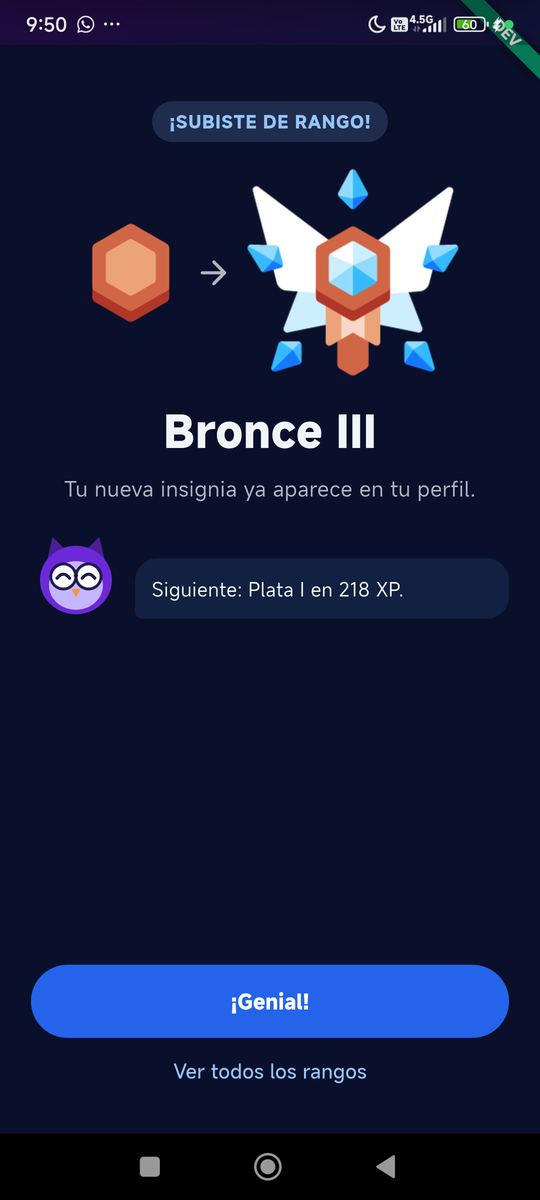
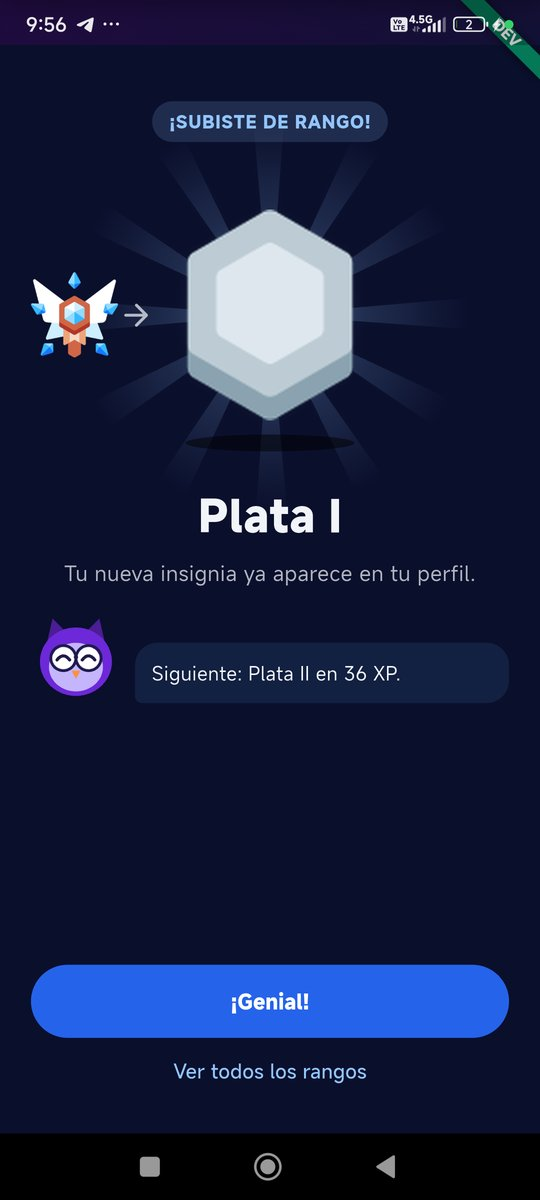
XP: ajuste «Animación al subir de rango» y el editor conserva los campos que no muestra
- {config}/xp.rankAnimation (true de fábrica) en XpSettings y en Niveles e insignias.
- El editor completo de XP ya no devuelve explanationVideoDailyCap a 25 al guardar.
- Guía v30 (animación y captura nueva) y Arquitectura v36.

diff --git a/docs/guias/guia_app.html b/docs/guias/guia_app.html
@@ -774,7 +774,7 @@ flowchart LR
 </div>
 
 <div class="screen" id="xp-celebracion">
-  <figure><img src="img/xp-celebracion.jpg" alt="Subiste de rango"><figcaption>Bronce I → Bronce III.</figcaption></figure>
+  <figure><img src="img/xp-celebracion.jpg" alt="Subiste de rango"><figcaption>Bronce III → Plata I, al terminar la animación.</figcaption></figure>
   <div class="body">
 <h3>«¡Subiste de rango!»</h3>
 <div class="table-wrap"><table>
@@ -783,6 +783,7 @@ flowchart LR
   <tr><td class="msg">«¡NUEVA ESTRELLA!» · «Ya tienes N estrellas sobre tu insignia.»</td><td>Al ganar una estrella después del último rango.</td></tr>
   <tr><td class="msg">«Llegaste al rango más alto. Ahora cada 2.000 XP suma una estrella.»</td><td>Al llegar a Maestro III.</td></tr>
 </table></div>
+<p><b>Animación</b> <span class="chip info">ADMIN</span>: la insignia anterior brilla y tiembla, gira como una moneda y se convierte en la nueva con un destello, un anillo, rayos de luz, vibración y confeti; luego entran los textos, el búho salta y a la izquierda queda la insignia anterior con una flecha (unos 3 s). Con una estrella nueva, la insignia queda quieta: una estrella entra volando, la etiqueta pasa de ★N-1 a ★N con chispas y un confeti pequeño. Tocar la insignia salta al final. Sin animación (ajuste «Animación al subir de rango» apagado, o el teléfono con «reducir movimiento») se ve directamente la pantalla final, sin confeti.</p>
 <p>Si el admin revierte XP y el rango baja, no hay mensaje.</p>
   </div>
 </div>
@@ -1078,6 +1079,7 @@ flowchart LR
 <!-- ============================================================ CAMBIOS -->
 <h2 id="cambios">Historial de cambios</h2>
 <ul class="changelog">
+  <li><b>22-oct-2026</b> · «¡Subiste de rango!» animado: la insignia anterior brilla, gira como moneda y se convierte en la nueva con destello, rayos, vibración y confeti; la estrella nueva entra volando a su etiqueta. Tocar la insignia salta al final; se apaga en el admin (Niveles e insignias → «Animación al subir de rango») y con «reducir movimiento». Captura nueva.</li>
   <li><b>19-oct-2026</b> · Admin: «Salud del contenido» ahora sale de un reporte que guarda el servidor y se recalcula solo cuando cambia el contenido. Se ve igual y casi no gasta lecturas. Abrir un curso también lee mucho menos.</li>
   <li><b>19-oct-2026</b> · «Tu progreso e historial» renovado: promedio de los últimos 10 exámenes y su gráfico en la cabecera, «Tu último examen» con «Revisar» y «Practicar N errores», los 3 temas más flojos con «Ver los N», totales exactos de todos los exámenes y los últimos 10 (ajuste del admin «Exámenes en el historial») con revisión al tocarlos. «Tus simulacros» y Stats cuentan todos los exámenes. Abrir una revisión muestra «Abriendo la revisión…».</li>
   <li><b>19-oct-2026</b> · Admin: cada ajuste de Configuración explica para qué sirve (41 descripciones nuevas). «Segundos entre guardados» acepta 0 para guardar solo por respuestas, al salir y al entregar. El Simulador lee el historial de resultados con una sola lectura; el alumno no ve cambios.</li>

diff --git a/docs/guias/arquitectura.html b/docs/guias/arquitectura.html
@@ -529,6 +529,8 @@ flowchart LR
 
 <h2 id="cambios">Historial de cambios</h2>
 <ul class="changelog">
+<li><b>22-oct-2026</b> · <code>{config}/xp.rankAnimation</code> (booleano, <code>true</code> de fábrica; viaja en <code>{config}/app</code>): la app anima «¡Subiste de rango!» y la estrella nueva. Solo pantalla, sin lecturas nuevas. El editor de XP del admin ya no devuelve <code>explanationVideoDailyCap</code> ni <code>rankAnimation</code> a su valor de fábrica al guardar.</li>
+<li><b>22-oct-2026</b> · Estadísticas renovadas: <code>{config}/stats</code> (umbrales de la pestaña, contrato <code>docs/stats_contract.md</code>) en <code>APP_CONFIG_SECTIONS</code>; la app lee los 200 resultados de <code>simulatorSummary/current.recentResults</code> (misma lectura). Admin #117, app #133.</li>
 <li><b>20-oct-2026</b> · Menos lecturas por examen (rama <code>codex/costos-lecturas-examen</code>): índice compuesto de <code>simulatorResults</code> (<code>blank</code>, <code>correct</code>, <code>incorrect</code>, <code>total</code>) que exige la suma de totales del primer envío (sin él <code>submitExamAttempt</code> fallaba con <code>unexpected_server_error</code>); <code>{config}/catalog.activeCourseIds</code> (lo reescribe <code>auditCourses</code>) reemplaza recorrer la colección de cursos en cada arranque en frío del Simulador; la muestra del índice lee solo las preguntas que usará (sin margen de 2); <code>xp_granted</code> registra solo el trabajo del XP. App: no reintenta guardar respuestas de un examen vencido o cerrado. «Hoy te toca»: de ≈56 a ≈25 lecturas en frío.</li>
 <li><b>19-oct-2026</b> · Salud del contenido en el servidor: callable <code>refreshContentHealth</code>, reporte <code>iya-admin-reports-{env}/contentHealth</code> (lectura del admin con <code>courses:v</code>) y marca <code>dirtyAtMs</code> desde los disparadores; el índice por curso guarda las partes (<code>q[id].p</code>) y el admin con <code>courses:v</code> puede leerlo. Inicio del admin: de ≈1.570 lecturas a 1 (≈160 en el servidor solo si cambió el contenido); abrir un curso: de ≈1.430 a 1. Mismos resultados que antes en las 158 partes de TEST.</li>
 <li><b>19-oct-2026</b> · Totales del alumno en <code>simulatorSummary/current.totals</code> (<code>exams</code>, <code>questions</code>, <code>correct</code>, <code>incorrect</code>, <code>blank</code>, <code>byCourse</code>): <code>submitExamAttempt</code> los calcula la primera vez con una agregación sobre <code>simulatorResults</code> dentro de la transacción (1 lectura por cada 1 000 resultados) y después suma con <code>FieldValue.increment</code> (<code>totalsUpdate</code>). La app los usa en «Tus simulacros», Stats y el historial, y comparte una lectura del resumen entre resultados, totales y temas. Nuevo <code>{config}/simulator.historyLimit</code> (5 a 30, 10): exámenes que lista el historial; cada uno abre su revisión (<code>getExamAttempt</code> + reenvío idempotente, solo al tocar).</li>

diff --git a/test/xp_settings_test.dart b/test/xp_settings_test.dart
@@ -146,4 +146,47 @@ void main() {
     expect((doc.data()!['amounts'] as Map)['partPassed'], 45);
     expect((doc.data()!['ranks'] as List).length, 18);
   });
+
+  testWidgets('the card keeps the fields it does not show', (tester) async {
+    final db = FakeFirebaseFirestore();
+    final ref = db
+        .collection(AppEnv.configCollection)
+        .doc(AppEnv.xpSettingsDocument);
+    await ref.set({
+      ...XpSettings.defaults.toMap(),
+      'explanationVideoDailyCap': 40,
+      'rankAnimation': false,
+    });
+    tester.view.physicalSize = const Size(1200, 6000);
+    tester.view.devicePixelRatio = 1;
+    addTearDown(tester.view.reset);
+    await tester.pumpWidget(
+      ProviderScope(
+        overrides: [xpRepoProvider.overrideWithValue(XpRepo(db))],
+        child: const MaterialApp(
+          home: Scaffold(
+            body: SingleChildScrollView(child: XpSettingsSection()),
+          ),
+        ),
+      ),
+    );
+    await tester.pumpAndSettle();
+    await tester.tap(find.byKey(const ValueKey('xp-save')));
+    await tester.pumpAndSettle();
+    final data = (await ref.get()).data()!;
+    expect(data['explanationVideoDailyCap'], 40);
+    expect(data['rankAnimation'], false);
+  });
+
+  test('rankAnimation is on unless the admin turns it off', () {
+    expect(XpSettings.fromMap(const {}).rankAnimation, isTrue);
+    expect(
+      XpSettings.fromMap(const {'rankAnimation': 'no'}).rankAnimation,
+      isTrue,
+    );
+    expect(
+      XpSettings.fromMap(const {'rankAnimation': false}).rankAnimation,
+      isFalse,
+    );
+  });
 }

diff --git a/lib/src/domain/xp_settings.dart b/lib/src/domain/xp_settings.dart
@@ -81,6 +81,7 @@ class XpSettings {
     this.minSecondsPerQuestion = 5,
     this.pastExamEveryDays = 7,
     this.explanationVideoDailyCap = 25,
+    this.rankAnimation = true,
   });
 
   final List<RankStep> ranks;
@@ -95,6 +96,10 @@ class XpSettings {
 
   /// XP máximo por día de las explicaciones vistas con video (tope propio).
   final int explanationVideoDailyCap;
+
+  /// La app anima la subida de rango y la estrella nueva (apagado: pantalla
+  /// fija).
+  final bool rankAnimation;
 
   static final XpSettings defaults = XpSettings(
     ranks: [
@@ -186,6 +191,9 @@ class XpSettings {
         0,
         1000,
       ),
+      rankAnimation: data['rankAnimation'] is bool
+          ? data['rankAnimation'] as bool
+          : d.rankAnimation,
     );
   }
 
@@ -200,6 +208,7 @@ class XpSettings {
     'minSecondsPerQuestion': minSecondsPerQuestion,
     'pastExamEveryDays': pastExamEveryDays,
     'explanationVideoDailyCap': explanationVideoDailyCap,
+    'rankAnimation': rankAnimation,
   };
 
   static String? validateRanks(List<RankStep> ranks) {

diff --git a/lib/src/domain/settings_catalog.dart b/lib/src/domain/settings_catalog.dart
@@ -780,6 +780,17 @@ final List<SettingsTopic> settingsTopics = [
         unit: 'XP',
         screen: _rangos,
       ),
+      SettingSpec(
+        doc: SettingsDoc.xp,
+        path: const ['rankAnimation'],
+        kind: SettingKind.toggle,
+        question: '¿Se anima la pantalla al subir de rango?',
+        label: 'Animación al subir de rango',
+        help:
+            'La insignia anterior brilla, gira como una moneda y se convierte en la nueva, con destello, rayos y confeti; una estrella nueva entra volando. Dura unos 3 segundos y el alumno puede tocar para saltarla. Apagado, la pantalla aparece fija. En teléfonos con «reducir movimiento» nunca se anima.',
+        keywords: 'animacion rango insignia estrella celebracion confeti',
+        screen: _rangos,
+      ),
     ],
   ),
   SettingsTopic(

diff --git a/lib/src/ui/screens/settings/xp_settings_card.dart b/lib/src/ui/screens/settings/xp_settings_card.dart
@@ -149,6 +149,8 @@ class _XpSettingsCardState extends ConsumerState<XpSettingsCard> {
       repeatWindowDays: limits['repeatWindowDays']!,
       minSecondsPerQuestion: limits['minSecondsPerQuestion']!,
       pastExamEveryDays: limits['pastExamEveryDays']!,
+      explanationVideoDailyCap: widget.settings.explanationVideoDailyCap,
+      rankAnimation: widget.settings.rankAnimation,
     );
   }
 

diff --git a/PROGRESO.md b/PROGRESO.md
@@ -2,11 +2,12 @@
 
 > Actualizar en cada desarrollo, commit o PR (también `../iya-app/PROGRESO.md`).
 
-_Última actualización: 2026-10-20_
+_Última actualización: 2026-10-22_
 
 > **Retomar en otra máquina:** `docs/contexto_claude/README.md` tiene el punto exacto donde quedamos (2026-10-19), las reglas de trabajo, los pendientes y una copia de la memoria de Claude.
 
 ## Estado actual
+- **Animación al subir de rango (2026-10-22, rama `codex/rango-animado`):** nuevo `{config}/xp.rankAnimation` (true de fábrica) en `XpSettings` y ajuste «Animación al subir de rango» en Niveles e insignias. Corregido: el editor completo de XP y rangos reescribía el documento sin `explanationVideoDailyCap` (volvía a 25 al guardar); ahora conserva ese campo y `rankAnimation` (prueba «the card keeps the fields it does not show»). Contrato `docs/xp_contract.md`. App: ver `../iya-app/PROGRESO.md`.
 - **Estadísticas de la app: `{config}/stats` (2026-10-20, rama `codex/stats-renovado`):** nuevo documento con los umbrales de la pestaña Estadísticas renovada de la app (búho, historias, cursos que más acercan, proyección y calendario). Admin: `domain/stats_settings.dart`, `AppConfigRepo.watchStatsSettings/saveStatsSettings`, `SettingsDoc.stats` y tema «Estadísticas» en `settings_catalog.dart` (9 ajustes con descripción; prueba de límites ajustada para la regla débil < fuerte). Functions: `stats` en `APP_CONFIG_SECTIONS` (`app_config.ts`), viaja en `{config}/app`. Contrato `docs/stats_contract.md` (copia en la app) y `app_config_contract.md` actualizado. La pantalla de la app está descrita en `../iya-app/PROGRESO.md`.
 - **Salud del contenido en el servidor (2026-10-19, rama `codex/salud-contenido`, desplegado en TEST):** el Inicio del admin leía cursos, temas, subtemas, plantillas y las 1 432 preguntas publicadas en cada entrada (≈1 570 lecturas). Ahora: (1) el índice por curso `iya-question-index-{env}` guarda las partes de cada pregunta (`q[id].p`; índice de TEST reconstruido con `tools/build_question_index.js`); (2) `functions/src/content_health.ts` junta los datos en `iya-admin-reports-{env}/contentHealth` con la callable `refreshContentHealth` (`courses:v`, 160 lecturas en TEST), y los disparadores `indexQuestions` y `auditCourses/Topics/Subtopics/Templates` solo marcan `dirtyAtMs`; (3) el admin (`ContentHealthRepo.load`, `reportFromFacts`) lee ese documento (1 lectura) y recalcula solo si falta, está marcado, «Revisar ahora» o tras guardar desde el admin (`refreshContentHealth(ref)`); abrir un curso cuenta preguntas con el índice de ese curso (1 lectura en vez de ≈1 430). Reglas: el admin con `courses:v` lee el índice y los reportes. Comprobado en TEST con los datos reales: mismos problemas y elementos en las 158 partes que el cálculo anterior. Pruebas: Functions 102 + emuladores 33, admin 172.
 - **«Tu progreso e historial» renovado y totales exactos (2026-10-19, rama `codex/historial-progreso`):** Kevin eligió la combinación 3 + 2 del lienzo https://claude.ai/artifact/1EWCP88CmP5aEmuVk1ErtZ. Functions: `submitExamAttempt` guarda `simulatorSummary/current.totals` (exámenes, preguntas, correctas, falladas, en blanco y por curso de todos los envíos): la primera vez con una agregación sobre `simulatorResults` dentro de la transacción y luego con incrementos (`totalsUpdate`); pruebas en `simulator_summary.test.ts` y en el emulador. Admin: ajuste «Exámenes en el historial» (`SimulatorSettings.historyLimit`, 5 a 30, 10 de fábrica) con su descripción, y la descripción de «Resultados que baja la app» corregida (ya no alimenta el historial). Se sigue guardando todo como antes. `submitExamAttempt` desplegada en TEST; los totales se crean en el primer envío de cada alumno. Guía v28 (capturas nuevas `sim-progreso.jpg` y `sim-historial.jpg`) y Arquitectura v33. Detalle de la app en `../iya-app/PROGRESO.md`.

diff --git a/docs/xp_contract.md b/docs/xp_contract.md
@@ -46,7 +46,7 @@ Las respuestas incluyen `xp` (§4) cuando algo se otorgó.
 
 | Ruta | Contenido | Escribe | Lee |
 |---|---|---|---|
-| `{config}/xp` | `ranks[{name, minXp, image}]`, `starsEnabled`, `xpPerStar`, `amounts{…}`, `dailyCap`, `minQuestionsPerSession`, `repeatWindowDays`, `minSecondsPerQuestion`, `pastExamEveryDays`, `explanationVideoDailyCap` | Admin | Functions, app |
+| `{config}/xp` | `ranks[{name, minXp, image}]`, `starsEnabled`, `xpPerStar`, `amounts{…}`, `dailyCap`, `minQuestionsPerSession`, `repeatWindowDays`, `minSecondsPerQuestion`, `pastExamEveryDays`, `explanationVideoDailyCap`, `rankAnimation` (animación al subir de rango o ganar una estrella; `true` de fábrica) | Admin | Functions, app |
 | `{profile}/{uid}/xp/current` | `total`, `rankStep` (el más alto alcanzado), `today{day, capped, explained}`, `week{key, xp, sessionDays[]}`, `pastExamDays{examId: día}`, `updatedAtMs` | Functions (y el admin al revertir) | Dueño, admin |
 | `{profile}/{uid}/xpEvents/{id}` | `type`, `xp`, `requested`, `count?`, `day`, `week`, `atMs`, `source{…}`, `createdAt`; si se revirtió: `reverted`, `revertedXp`, `revertReason`, `revertedBy`, `revertedAtMs` | Functions (y el admin al revertir) | Dueño, admin |
 | `{profile}/{uid}/ranking/current` | `alias`, `visible`, `moderatedReason`, `updatedAtMs` (fase 2) | Functions (y el admin al retirar un alias) | Dueño, admin |
